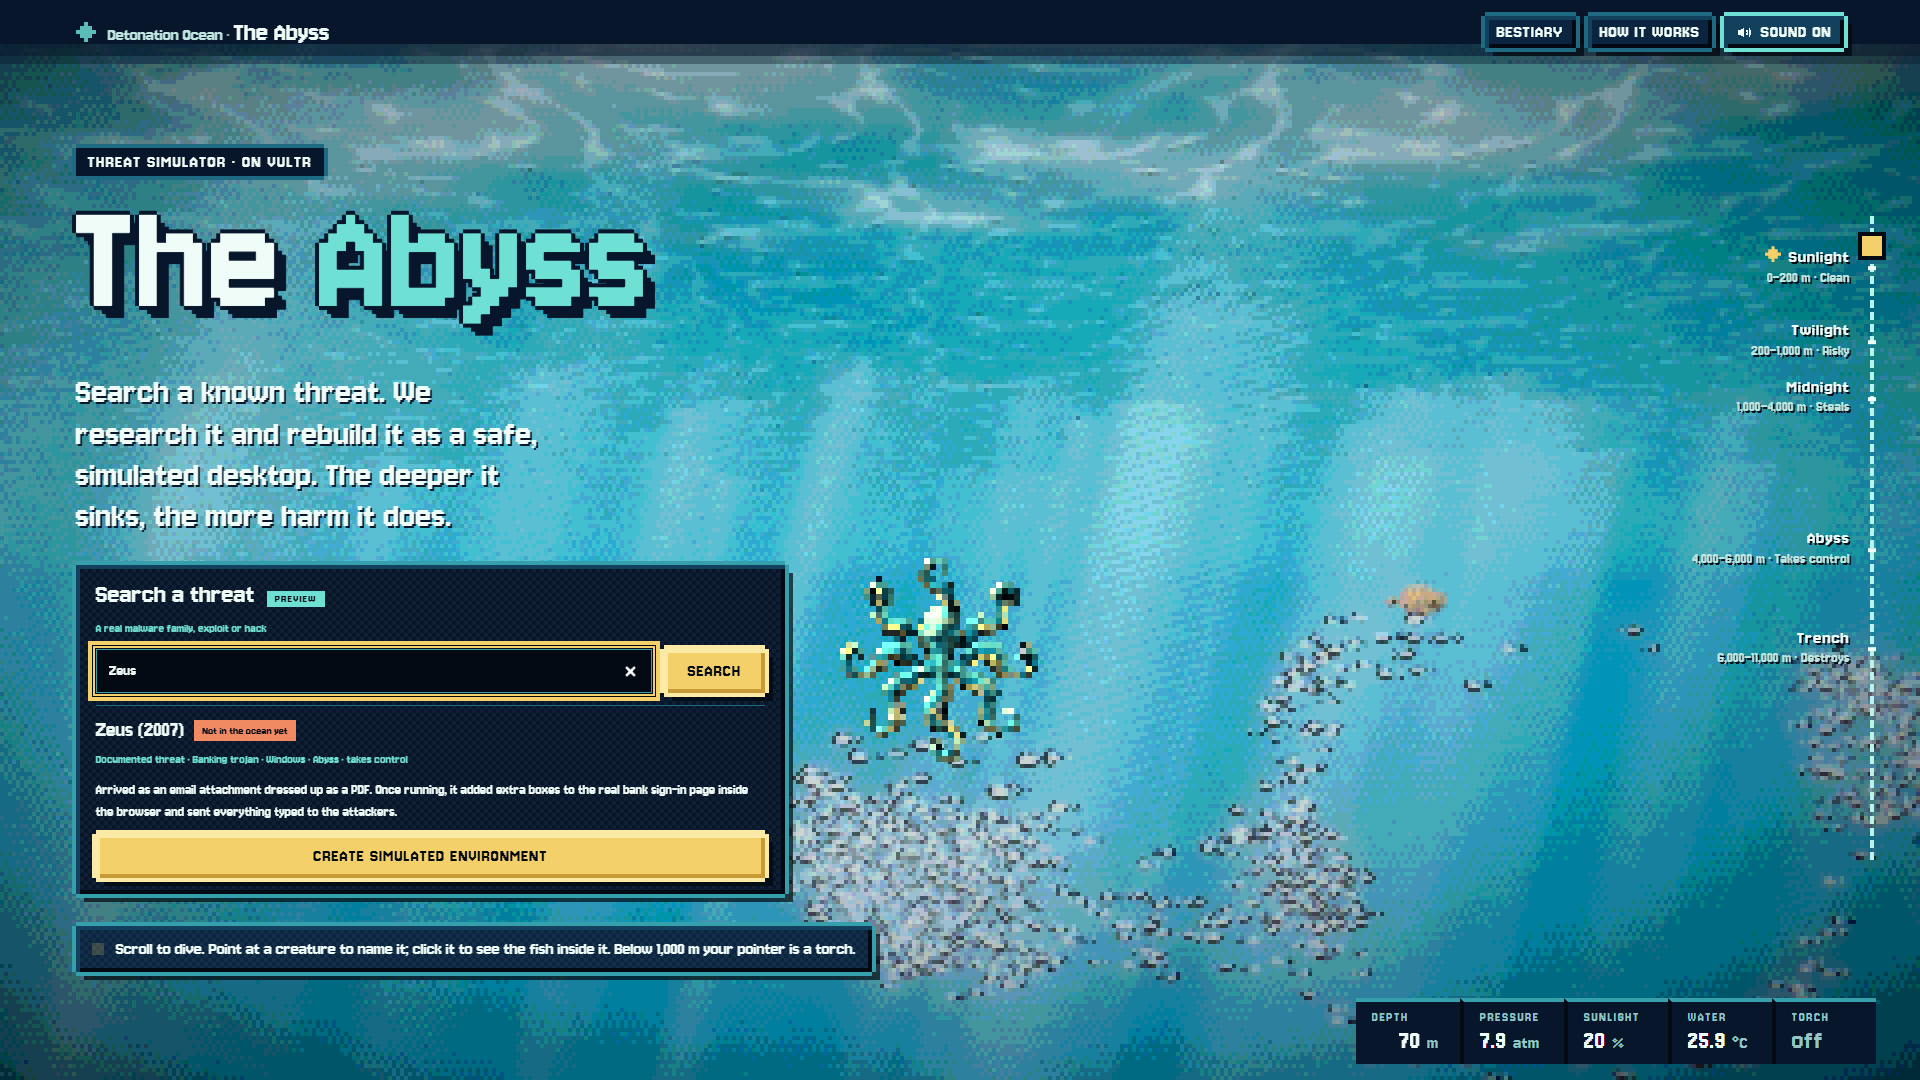
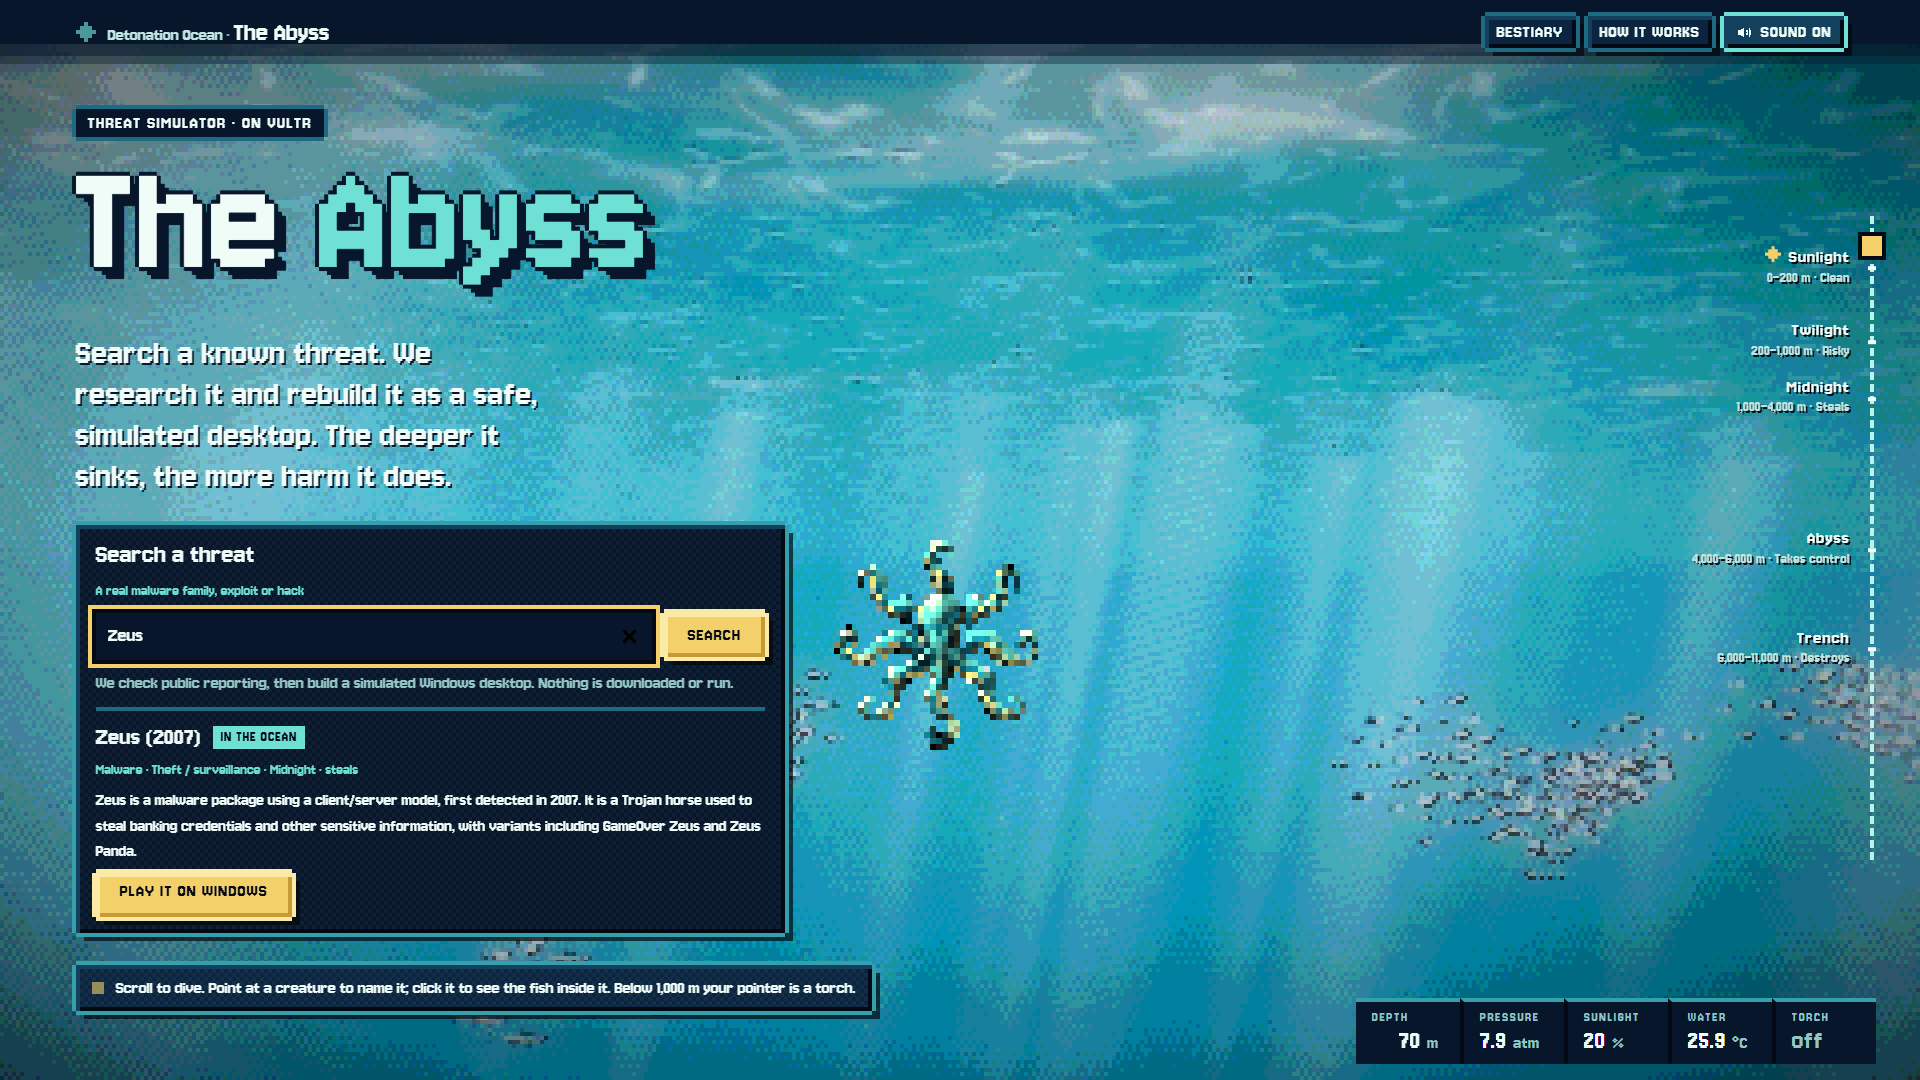
README: describe the live threat search and show a fresh screenshot of it

diff --git a/README.md b/README.md
@@ -14,15 +14,13 @@ Built for the Vultr Agent Rush hackathon, track **Blast Radius Zero**. The produ
 The project was first called Detonation Ocean; that name survives in the page header, some paths and some documents.
 
 <p>
-<img src="docs/images/home-search.png" alt="The Abyss home page: a pixel-art ocean with a search box, Search a threat" width="49%">
-<img src="docs/images/search-result.png" alt="Search result for Zeus (2007): documented banking trojan, with a Create simulated environment button" width="49%">
-<img src="docs/images/scenario-ready.png" alt="The scenario for Zeus is built: the generated scene script and an Open the Zeus scenario button" width="49%">
+<img src="docs/images/search-result.png" alt="The live search for Zeus: Zeus (2007), In the ocean, with a Play it on Windows button" width="49%">
 <img src="docs/images/quest-briefing.png" alt="Briefing before the Zeus quest: what happens, flag what looks wrong, you stay in control" width="49%">
 </p>
 
 ## What works today, and what does not
 
-- **Live at https://demo.abysscan.com:** the ocean, the quests deployed so far (two batches of the 59 in this repository) playing on both desktops, the guide, flags and grade card, and the **threat search**: the live `/api/threats/config` reports search and create switched on, so a new threat is checked, researched and written into a scene from public reporting. The screenshots below show the earlier Zeus-only preview, which had a "Preview" badge and scripted build steps.
+- **Live at https://demo.abysscan.com:** the ocean, the quests deployed so far (two batches of the 59 in this repository) playing on both desktops, the guide, flags and grade card, and the **threat search**. Searching a threat that is already in the ocean (Zeus) shows "In the ocean" and a "Play it on Windows" button. A threat that is not there is checked by Parallel Decisions, researched by Parallel Search and written into a scene by DeepSeek V4.1 Flash on Vultr Serverless Inference, with uncited steps cut. Every scenario is an illustration based on public reporting, not observed malware.
 - **Threat search code** (Parallel Decisions, Parallel Search, DeepSeek V4.1 Flash on Vultr Serverless Inference, a checker that cuts uncited steps): the automated tests are 29 unit tests and 18 browser checks, all on mocked services, so they do not exercise the live services. How it was put on the VM: [`docs/threat-search/DEPLOY.md`](docs/threat-search/DEPLOY.md).
 - **Retired:** file upload. `POST /api/jobs` answers 410 unless `DETONATION_UPLOADS=true`, and `/api/health` reports `acceptingJobs:false`. The gVisor sandbox pipeline that analysed uploads is still in the code and is the basis of the containment story below. The public site no longer lets anyone run it.
 - **Withheld from this repository:** the upstream Win11React artwork (icons and wallpapers; no recorded licence), bulk art-generation material and recordings. A Windows desktop built from a clone therefore shows missing icons and wallpapers. See [`THIRD-PARTY.md`](THIRD-PARTY.md).
